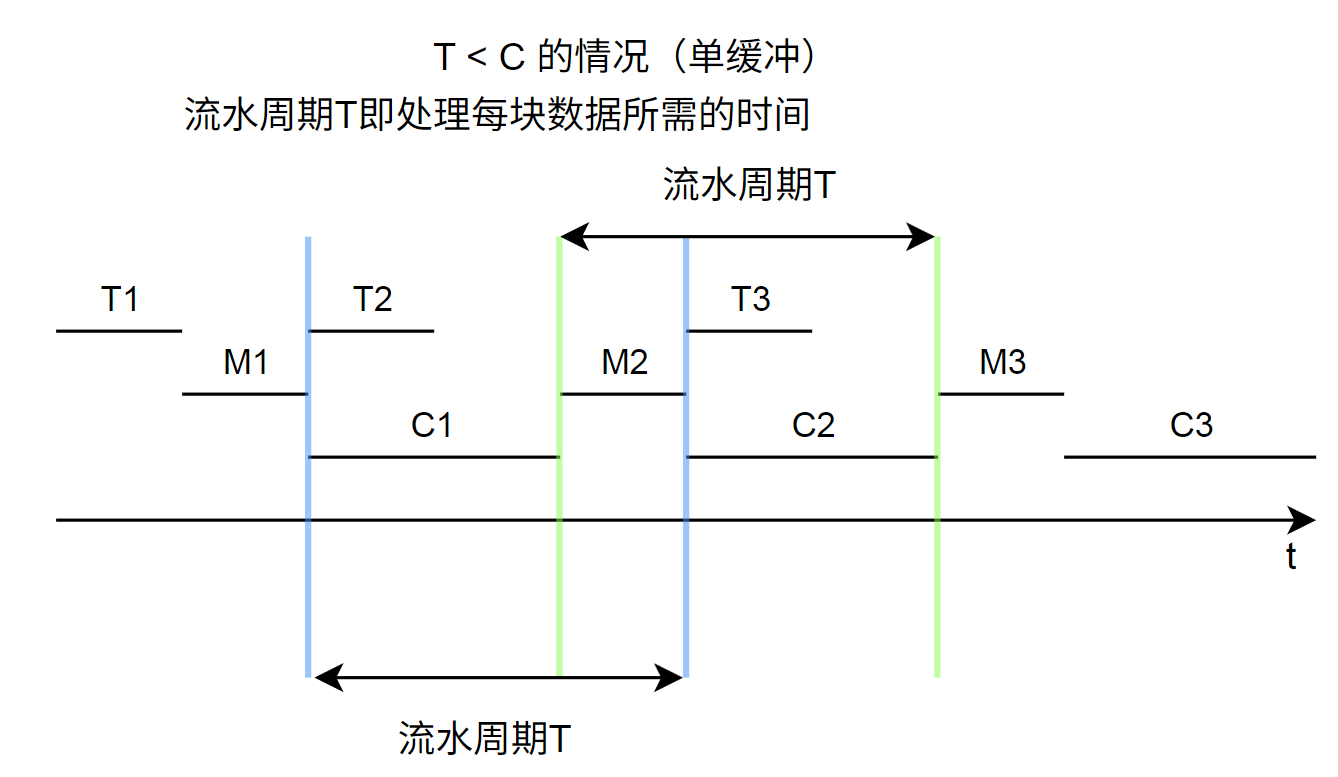
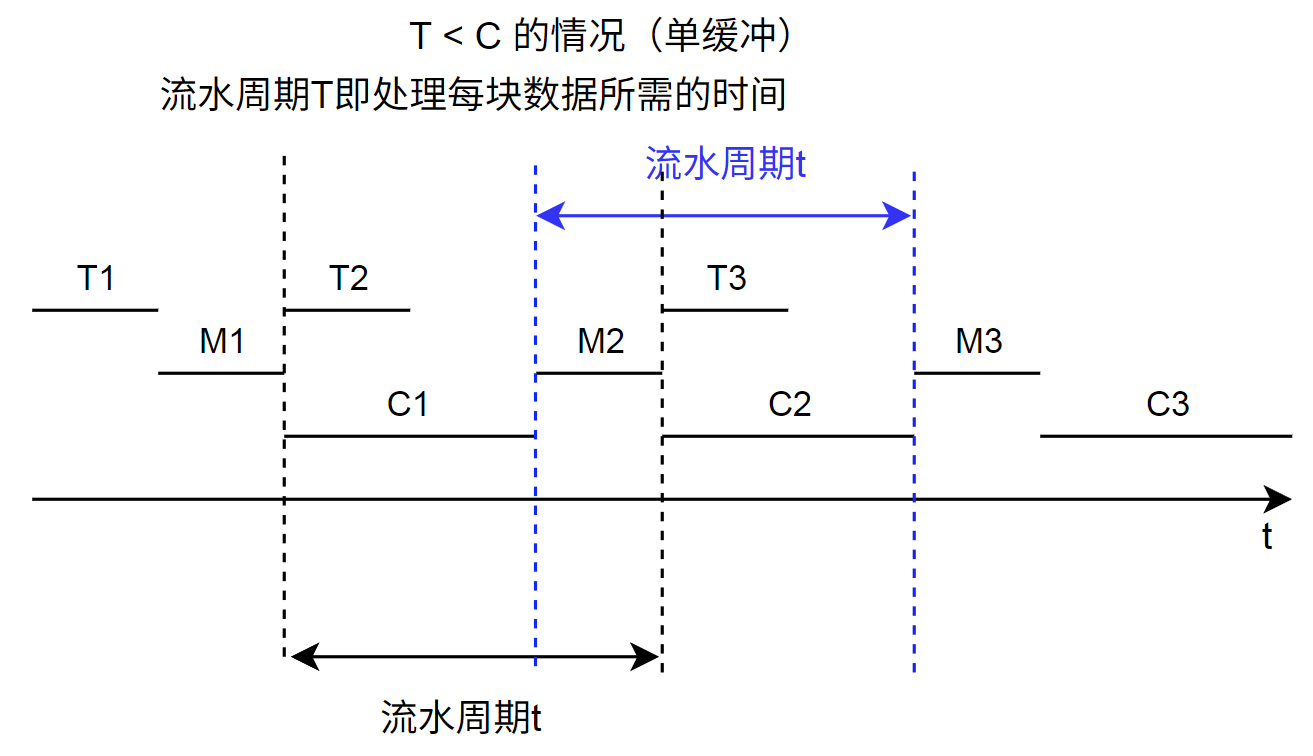
vault backup: 2026-09-12 09:42:30

diff --git a/408/操作系统/第五章/第五章 5.2高速缓存与缓冲区.md b/408/操作系统/第五章/第五章 5.2高速缓存与缓冲区.md
@@ -93,7 +93,7 @@
         - 系统的两个处理阶段为：**输入段（耗时 $T$）** 与 **消费段（传送+计算，串行耗时 $M + C$）**。
         - 设备向一个缓冲区写入（$T$）可与系统传送及处理另一个缓冲区的数据（$M + C$）**完全并行**。
 
-- ![[Pasted image 20260912092056.png]]
+- ![[Pasted image 20260912092733.png]]
 - **情况一：$T > C + M$（I/O 受限型，瓶颈在设备）**：
     - 运行状态：
         - 设备视角：设备向空缓冲区装入数据耗时较长，装满当前缓冲区时，另一缓冲区的数据早已传送并处理完毕恢复为空闲，故**空缓冲区源源不断供应，设备可连续无缝工作**。
@@ -104,7 +104,7 @@
     - 核心结论：
         - **处理每块数据的平均时间为 $T$**（瓶颈在于设备输入）。
 
-- ![[Pasted image 20260912092121.png]]
+- ![[Pasted image 20260912092756.png]]
 - **情况二：$T < C + M$（计算/传送受限型，瓶颈在 CPU + 传送）**：
     - 运行状态：
         - CPU 视角：设备输入极快，当 CPU 处理完当前数据时，下一块数据早已在缓冲区就绪，**数据源源不断供应，CPU 无须等待设备输入**。
@@ -117,3 +117,7 @@
 
 - 综上，**双缓冲处理每块数据的平均时间**为：$$\max(T,\; C + M)$$
 
+- 如果在实现**两台机器之间的通信**时**仅为它们设置了单缓冲区**，如图（a）所示，那么它们之间在任一时刻都只能实现**单方向**的数据传输。（半双工通信）
+	- 例如，只允许把数据从A机传送到B机，或者从B机传送到A机，而**绝不允许双方同时向对方发送数据**。
+
+- 在双机通信时，为了实现**双向数据传输**（**全双工通信**），必须**在两台机器中都设置两个缓冲区**，一个用作**发送**缓冲区，另一个用作**接收**缓冲区，如图（b）所示。
